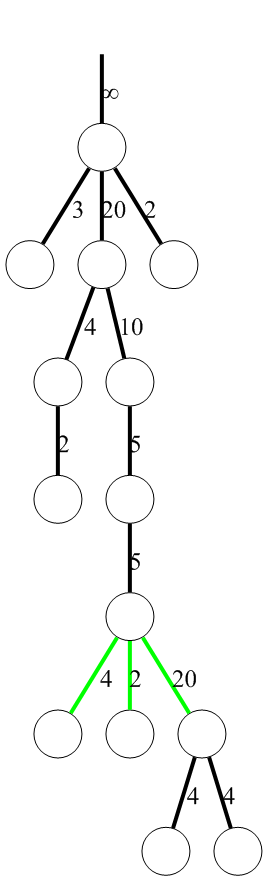
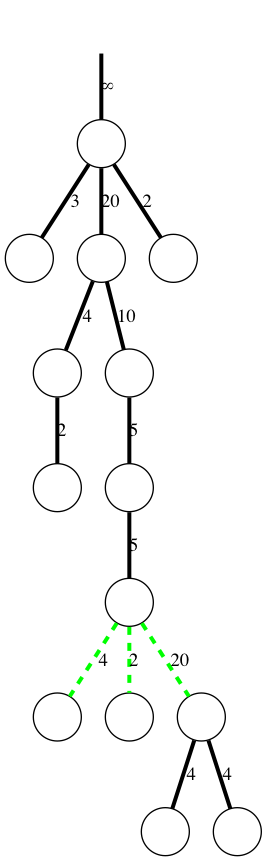
Start making greyscale-friendly figures.

diff --git a/waterfallpaper.tex b/waterfallpaper.tex
@@ -1,4 +1,4 @@
-\documentclass[review,a4paper]{elsarticle}
+\documentclass[preprint,a4paper]{elsarticle}
 
 \usepackage{afterpage}
 \usepackage{alltt}
@@ -448,7 +448,7 @@ Despite the speed and effectiveness of Marcotegui's method, it can be somewhat i
 	\subfigure[Level 1]{\includegraphics[width=.2\linewidth]{segmentation-waterfall-nicholls-example-g.png}}%
 	\hspace{4mm}%
 	\subfigure[Result]{\includegraphics[width=.2\linewidth]{segmentation-waterfall-nicholls-example-h.png}}%
-\caption[The SW method in action]{The SW method in action (considering all the edges in each level at a time for space reasons): black edges are non-guards, red edges are guards, blue edges are those which have been contracted and green edges are ones under active consideration. Note that in this example, the SW method's treatment of non-minimal plateaux has resulted in a $5$ edge being retained when it would have been contracted by Marcotegui's method.}
+\caption[The SW method in action]{The SW method in action (considering all the edges in each level at a time for space reasons): black edges are non-guards, red edges are guards, blue/dotted edges are those which have been contracted and green/dashed edges are ones under active consideration. Note that in this example, the SW method's treatment of non-minimal plateaux has resulted in a $5$ edge being retained when it would have been contracted by Marcotegui's method.}
 \label{fig:segmentation-waterfall-nicholls-example}
 \end{stusubfig}
 %---
